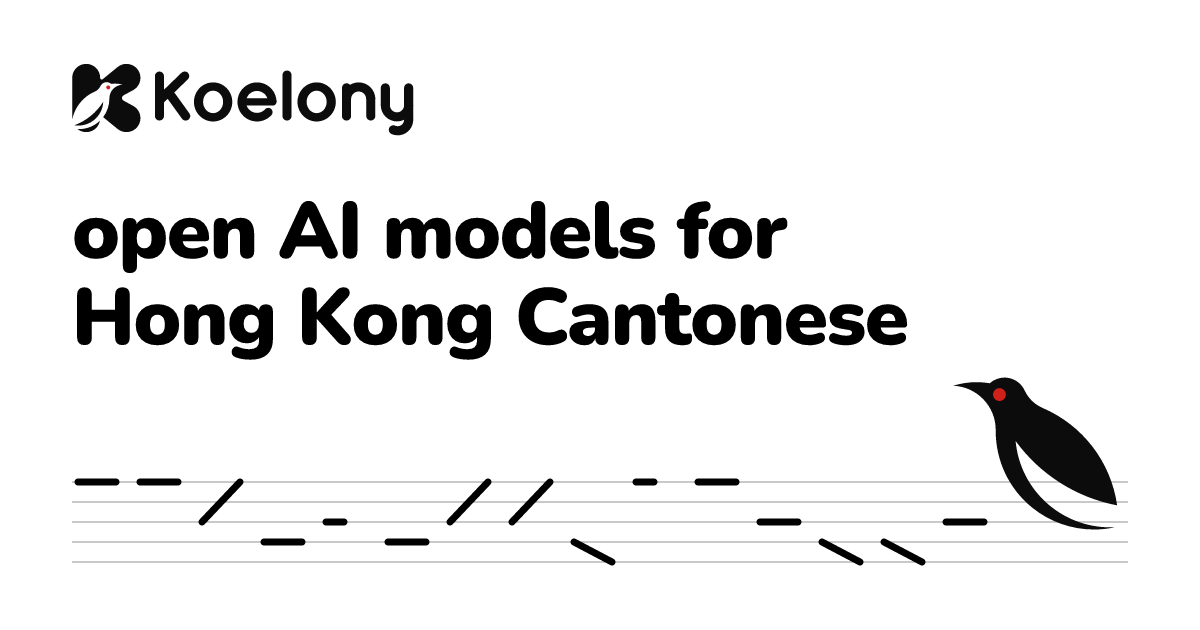
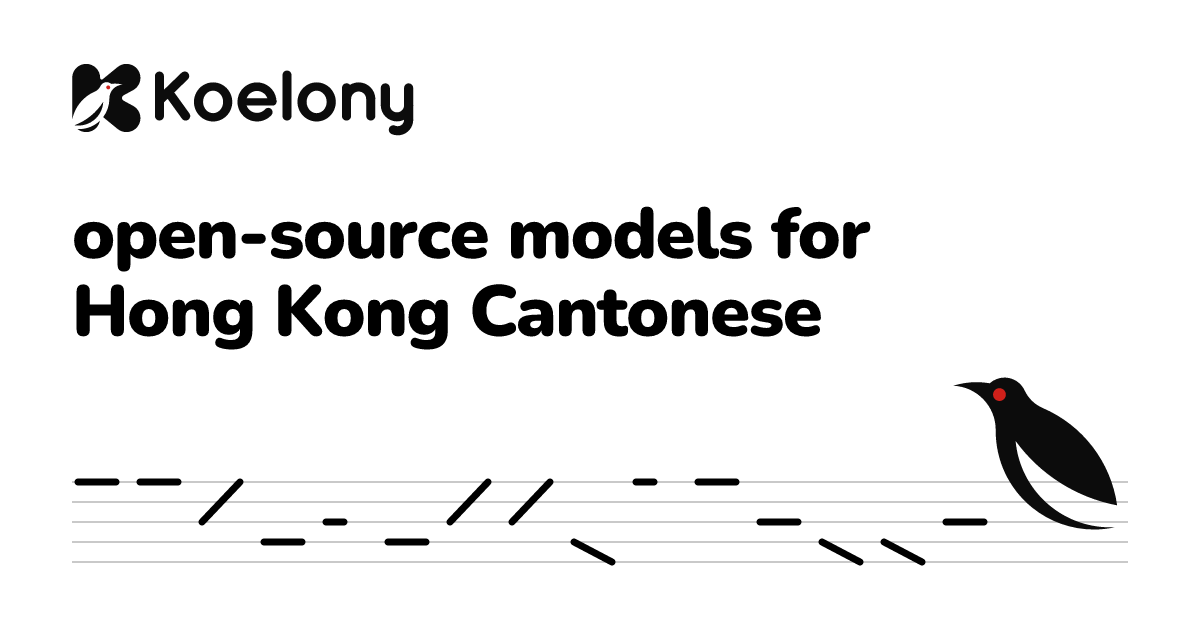
Say open-source models, not open AI models
"Open AI models" reads as OpenAI. Title, preview image, footer tagline, manifest and README.

Changed region(s): [[0.0617, 0.3016, 0.7708, 0.573]]

diff --git a/src/i18n/en.ts b/src/i18n/en.ts
@@ -2,9 +2,9 @@ import type { Dict } from "./types";
 
 export const en: Dict = {
   meta: {
-    title: "Koelony: open AI models for Hong Kong Cantonese",
+    title: "Koelony: open-source models for Hong Kong Cantonese",
     description:
-      "Open speech and language models for Hong Kong Cantonese. Qwen3-ASR fine-tunes (1.7B, 0.6B) that write colloquial Cantonese and keep English in English. GGUF, FP8 and NVFP4 builds.",
+      "Open-source speech and language models for Hong Kong Cantonese. Qwen3-ASR fine-tunes (1.7B, 0.6B) that write colloquial Cantonese and keep English in English. GGUF, FP8 and NVFP4 builds.",
     keywords: [
       "Cantonese ASR",
       "Hong Kong Cantonese",
@@ -16,7 +16,7 @@ export const en: Dict = {
       "open source AI",
       "廣東話語音識別",
     ],
-    ogAlt: "Koelony: open AI models for Hong Kong Cantonese",
+    ogAlt: "Koelony: open-source models for Hong Kong Cantonese",
   },
   skip: "Skip to content",
   nav: {
@@ -152,7 +152,7 @@ export const en: Dict = {
     cta: "See OraType",
   },
   footer: {
-    tagline: "Open AI models for Hong Kong Cantonese.",
+    tagline: "Open-source models for Hong Kong Cantonese.",
     license: "Models released under Apache-2.0.",
     links: "Links",
   },

diff --git a/README.md b/README.md
@@ -1,6 +1,6 @@
 # koelony.com
 
-Source of [koelony.com](https://koelony.com), the site of **Koelony**: open AI models for Hong Kong Cantonese.
+Source of [koelony.com](https://koelony.com), the site of **Koelony**: open-source models for Hong Kong Cantonese.
 
 English lives at `/`, Hong Kong Cantonese at `/zh-hk/`. Both are prerendered to static HTML at build
 time (full content, `hreflang`, Open Graph and JSON-LD in the HTML), then hydrated by React.
